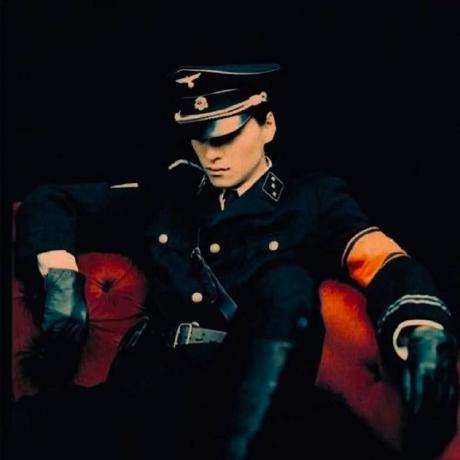
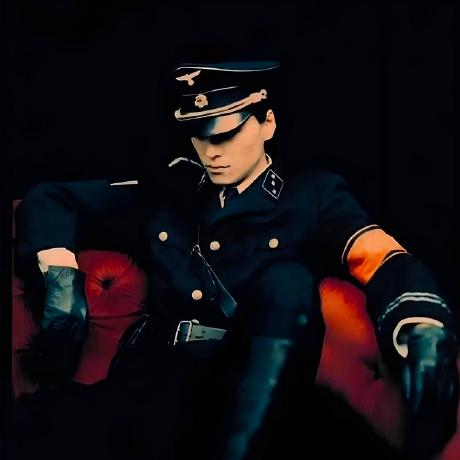
Avatarı güncelle ve önbelleği kır

diff --git a/index.html b/index.html
@@ -75,7 +75,7 @@
 
     <main class="stage" id="main">
       <div class="portrait" aria-hidden="true">
-        <img src="assets/avatar.jpg" alt="" />
+        <img src="assets/avatar.jpg?v=395fbabb" alt="" />
       </div>
 
       <div class="chat">
@@ -180,7 +180,7 @@
 
       <div class="composer-wrap">
         <form class="composer" id="composer">
-          <img class="composer-avatar" src="assets/avatar.jpg" alt="" width="30" height="30" />
+          <img class="composer-avatar" src="assets/avatar.jpg?v=395fbabb" alt="" width="30" height="30" />
           <a class="composer-plus" href="https://github.com/Tarikdxd?tab=repositories" target="_blank" rel="noopener" aria-label="Repolar">+</a>
           <input id="message" name="message" type="text" autocomplete="off" placeholder="Bir mesaj yaz… (GitHub'da aç)" aria-label="Mesaj" />
           <button class="composer-send" type="submit" aria-label="Gönder">
